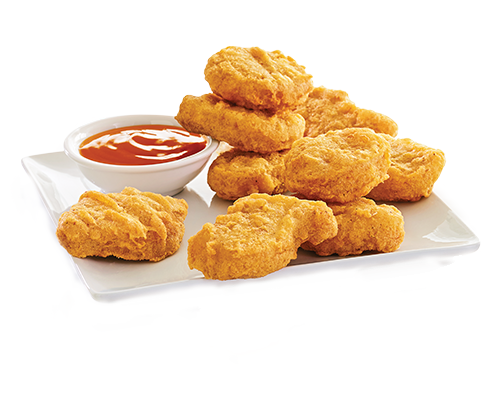
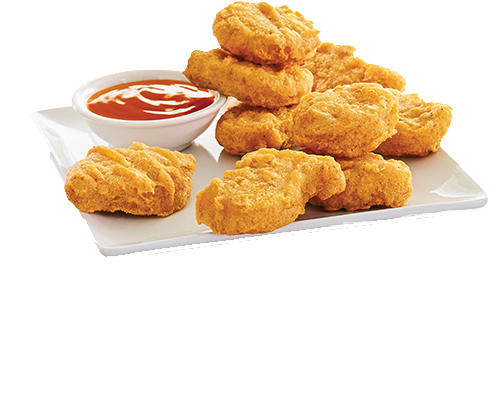
changes

diff --git a/src/Home/components/Slidercarasouel/style.scss b/src/Home/components/Slidercarasouel/style.scss
@@ -127,28 +127,30 @@
                 width: 100%;
             }
                 figure{
-                    width: 80%;
-                    height: 460px;
+                    width: 420px;
+                    height: 420px;
                     background-color: transparent;
-                    animation: updownfig 4s ease-in-out infinite alternate;
                     @media screen and (max-width:768px) {
                         margin: 0 auto;
                         width: 45%;
                         height: 200px;
                     }
-                    @keyframes updownfig {
-                         0%{
-                            transform: translateY(-4%);
-                            opacity: 0.7;
-                         }
-                         100%{
-                            transform: translateY(4%);
-                            scale: 1;
-                         }
-                    }
+                
                     img{
                         width: 100%;
                         height: 100%;
+                        animation: updownfig 4s ease-in-out infinite alternate;
+
+                        @keyframes updownfig {
+                            0%{
+                               transform: translateY(-2%); 
+                               opacity: 0.7;
+                            }
+                            100%{
+                               transform: translateY(5%);
+                               scale: 1;
+                            }
+                       }
                         // object-fit: cover;
                     }
 
